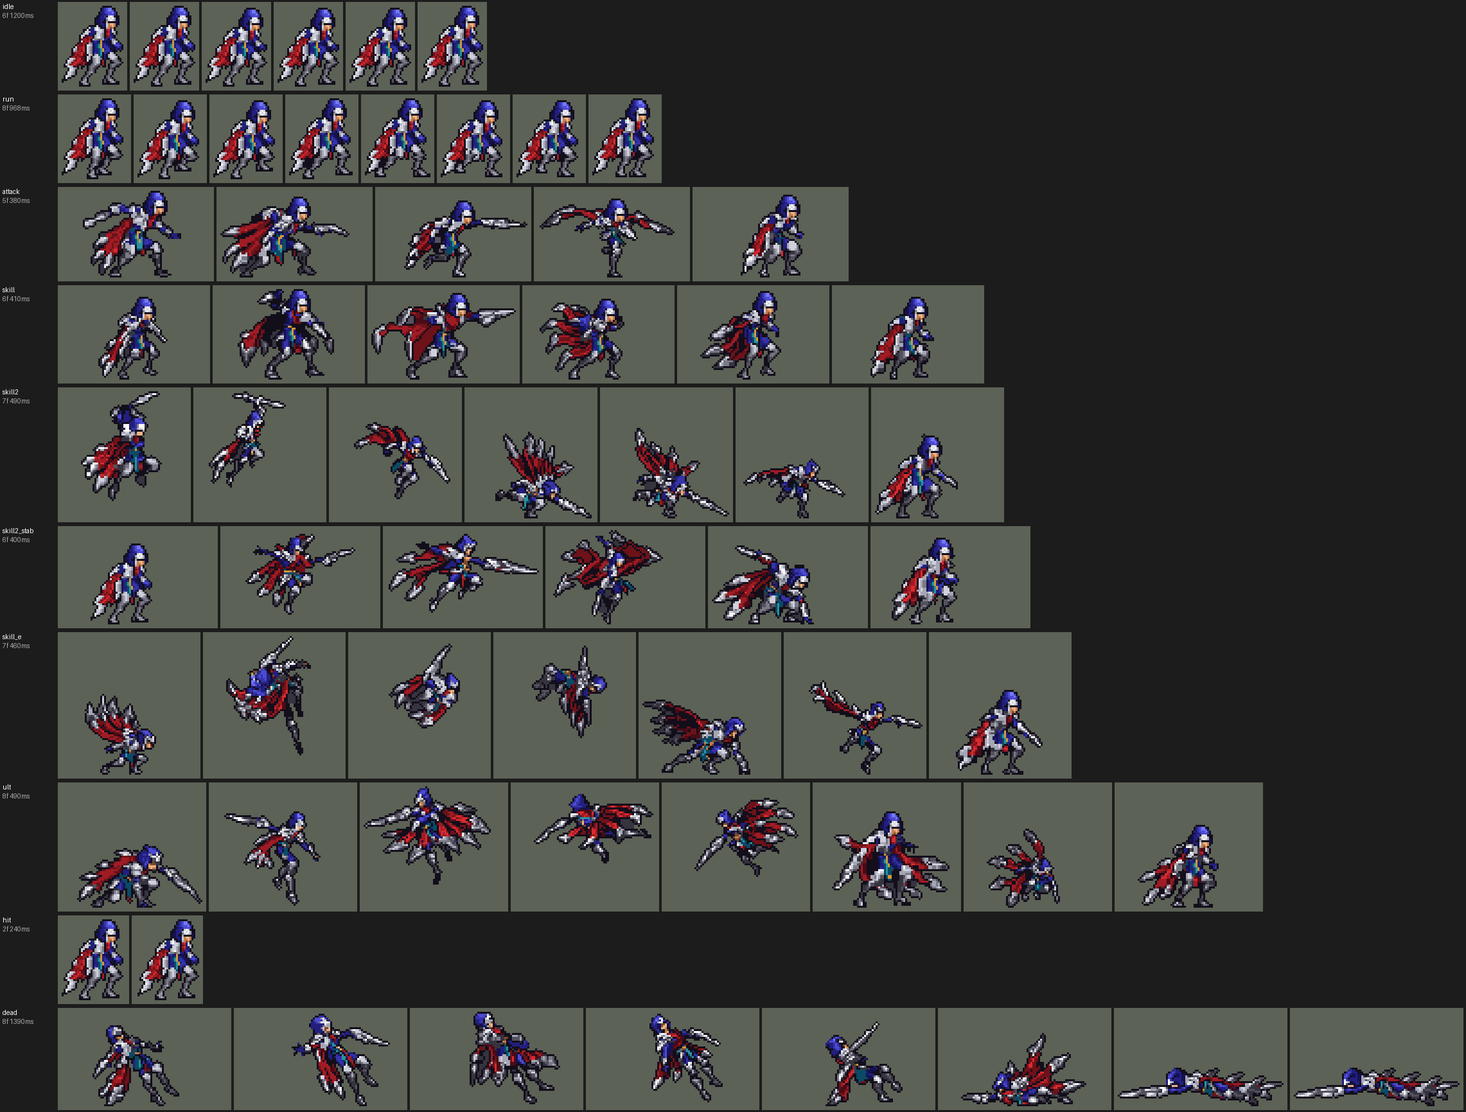
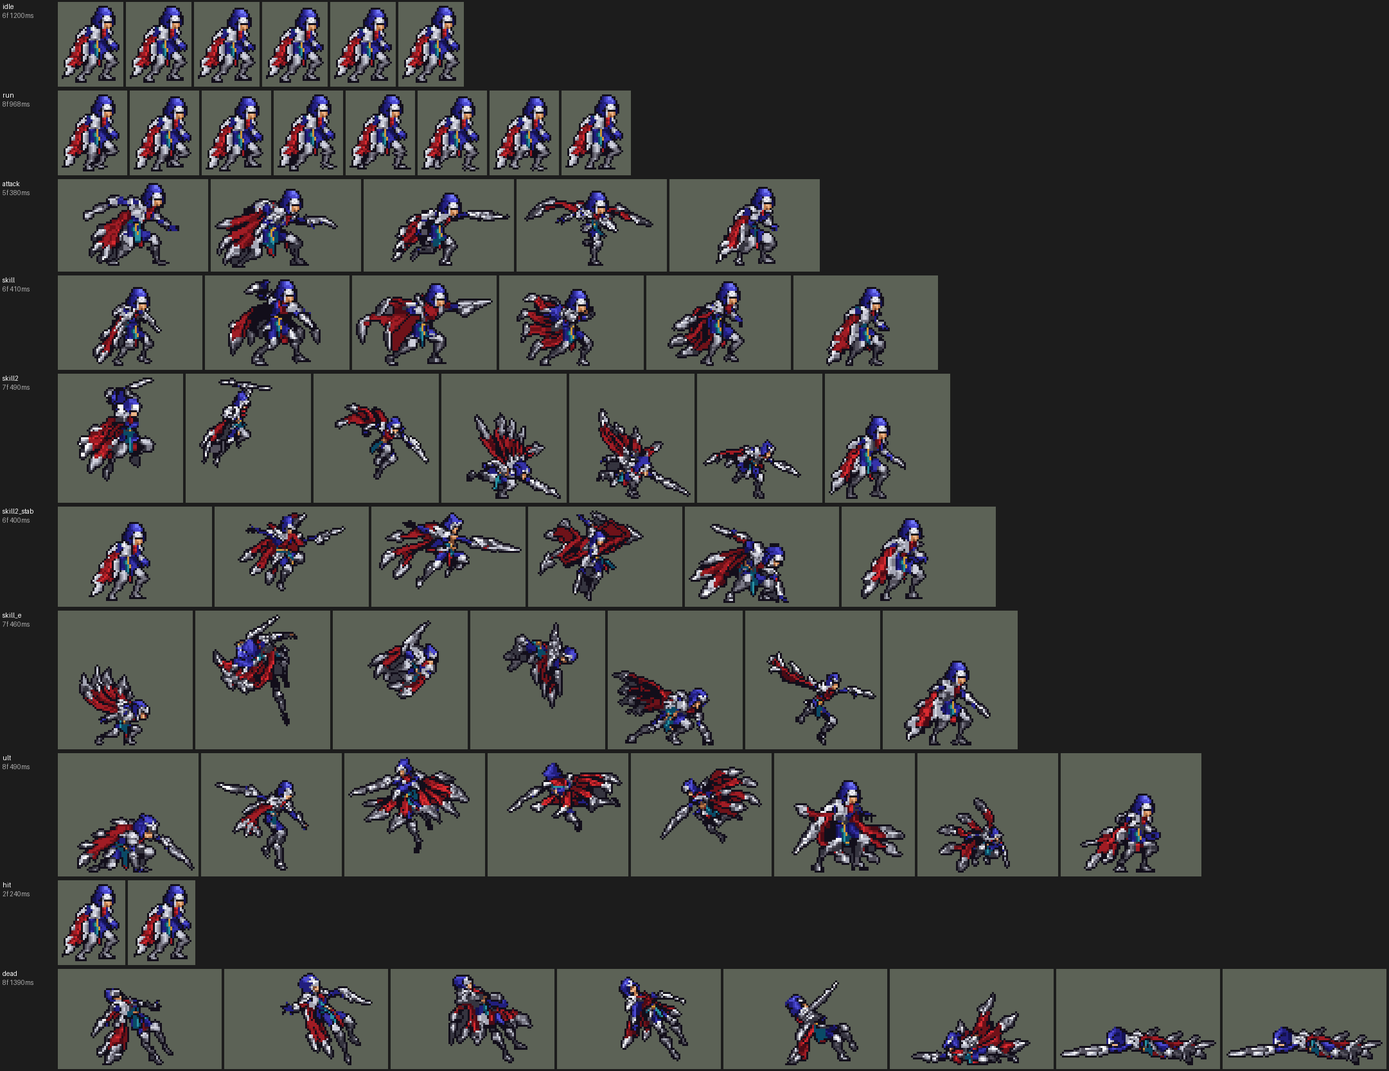
Talon: 95% without touching the head
The user asked for a slightly smaller model (95%, 40 rows). The first cut
took a column through the hood's back and the head looked narrow. The head
(hood, crest, lower face) is now kept whole in every frame: shrink_frames
moves an action's line off the head in the frames where the head has moved
against the sash anchor (SHRINK_HEAD), and the torso box keeps the sash and
buckle rows. The idle loses two shin rows and two cape columns; clean_talon
closes the cut outlines; the hit is rebuilt from the shrunk idle. Face point
(10, -39), card at the default (hood top -28).

diff --git a/tools/art/import_native.py b/tools/art/import_native.py
@@ -651,27 +651,34 @@ BOB_CARRY = {("jhin", "idle"): ((None, -11), (6, None))}
 # hero: a module in tools/art with tidy(tag, k, frame) -> frame, run on the finished frames (after the outline is closed
 # and cleaned): the user's clean-up of dirty black blocks and stray squares inside the silhouette (2026-10-02:
 # "盖伦把黑边清理干净 有杂的黑色的地方", "风女 莫甘娜 不干净的黑色块也太多了", "莫甘娜头部有很多多余的方块", "阿狸也是都给我清理干净")
-TIDY = {"ahri": "clean_ahri", "janna": "clean_janna", "morgana": "clean_morgana",
+TIDY = {"talon": "clean_talon", "ahri": "clean_ahri", "janna": "clean_janna", "morgana": "clean_morgana",
         "xerath": "clean_xerath", "gwen": "clean_gwen"}   # gwen: heart-hole marker -> transparent (clean_gwen); 「顺便把泽拉斯脚上的黑边清理干净」: bare outline stalks under his leg tips
 # heroes made smaller from their finished frames: whole rows and columns out, never resampled (shrink_frames.py); the idle
 # before it breathes. A hero whose strips a rig builds from the design shrinks the design there instead (rig_xinzhao.py
 # SCALE: cut from finished frames a diagonal spear's 1:2 shaft got uneven steps); SHRINK_KEEP: skin colours (hands)
 # no line may cross, "!RRGGBB+up,down,left,right" a box no line may cross
-SHRINK = {"xerath": 0.9, "renekton": 0.9, "twitch": 0.85, "karma": 0.95}      # players (2026-10-08): 「泽拉斯 ... 体型偏大」「鳄鱼体型也偏大了」; karma: 「卡尔玛体型可以变小一点」 -> 90%, then 「缩小模型后有点奇怪了啊整体」: the head is cut in fix_karma_strips.py (HEAD_CUT, the same in every frame) and only two body rows go here (0.95, the head box and the boots kept)
+SHRINK = {"xerath": 0.9, "renekton": 0.9, "twitch": 0.85, "karma": 0.95, "talon": 0.95}      # players (2026-10-08): 「泽拉斯 ... 体型偏大」「鳄鱼体型也偏大了」; karma: 「卡尔玛体型可以变小一点」 -> 90%, then 「缩小模型后有点奇怪了啊整体」: the head is cut in fix_karma_strips.py (HEAD_CUT, the same in every frame) and only two body rows go here (0.95, the head box and the boots kept)
 # no line through Xerath's face (his eyes' white-hot core) or Renekton's (his yellow eyes to his red jaw)
 # "=RRGGBB": no row through a square of that colour (Renekton's blue knee guards: a row through them halved the guard
 # and shifted his leg's stripes - 「这里是像素缺失吗」「在左脚啊」); not in his death, where the lying body's blue made
 # every low row "knee" and the cut fell on his head
-SHRINK_KEEP = {"olaf": ["!0455A6+13,6,11,11"], "karma": ["!1BB663+1,9,16,10", "=222048", "C4815A", "825238"], "xerath": ["!FBFCFC"], "twitch": ["#FBFDF7", "!F94714+3,0,1,1"], "renekton": ["!F9D206+2,1,2,2", "!A8161F", "=0218B2", "=010E84"]}
+SHRINK_KEEP = {"talon": ["!4D4BD2", "!7279F6", "!ECB486+2,12,14,5", "=2A92A2", "=D09A38"], "olaf": ["!0455A6+13,6,11,11"], "karma": ["!1BB663+1,9,16,10", "=222048", "C4815A", "825238"], "xerath": ["!FBFCFC"], "twitch": ["#FBFDF7", "!F94714+3,0,1,1"], "renekton": ["!F9D206+2,1,2,2", "!A8161F", "=0218B2", "=010E84"]}
 SHRINK_KEEP_TAG = {"karma": {"dead": ["!1BB663+3,9,16,10", "=222048", "C4815A", "825238"]}, "renekton": {"dead": ["!F9D206+2,1,2,2", "!A8161F"]}}
 # the lines follow the body from frame to frame, anchored on a colour only one feature has: cut at fixed canvas lines,
 # a cast or an attack that moves him took different lines of him in each frame - 「缩小后放技能的时候模型有点变形」
 # 「攻击时候也是」
-SHRINK_ANCHOR = {"olaf": "0455A6", "karma": "1BB663", "xerath": "FBFCFC", "twitch": "FBFDF7", "renekton": "F9D206"}
+# the head alone, as "!" colours: no frame's removed line crosses it - an action's shared lines are moved off it in
+# the frames where the head has moved against the anchor (Talon ducks, leaps and falls under his sash)
+SHRINK_HEAD = {"talon": ["!7279F6", "!ECB486+2,1,6,3"]}
+SHRINK_ANCHOR = {"talon": "2A92A2", "olaf": "0455A6", "karma": "1BB663", "xerath": "FBFCFC", "twitch": "FBFDF7", "renekton": "F9D206"}
 # actions whose body stands still while something over it floats: their lines are taken at the same place in every frame
 # (shrink_frames' still) - Karma's ring bobs in her idle and carries a square of the anchor's gem green, so the anchor
 # moved with it and her legs lost a row one higher in frames 3-4 (「待机动画效果的时候腿部变形啊」)
-SHRINK_STILL = {"karma": ["idle"]}
+SHRINK_STILL = {"karma": ["idle"], "talon": ["idle"]}
+# actions that are the idle's first frame moved sideways (Talon's hit: the design stepping back): after the shrink they
+# are rebuilt from the shrunk idle, {hero: {tag: [dx per frame]}} - shrunk on their own they lost another column
+# than the idle did, one through the hood (「确认模型没有变形」)
+SHRINK_FROM_IDLE = {"talon": {"hit": [-2, -1]}}
 # single actions made smaller (the idle untouched), {hero: {scale: [tags]}}, with SHRINK_KEEP / SHRINK_ANCHOR as above:
 # Olaf's idle is the slim design B, and Codex's redraw of his R, E and death kept bulkier bodies (area 1.2-1.7x the
 # idle's) - after 「奥拉夫跑动时为什么变大一圈 好违和」 the user picked 「一起改」 (every action at the idle's size); his hit
@@ -1497,7 +1504,8 @@ def main():
             body0 = SF.body_of(sheet["idle"])
             a0 = sheet["idle"][0][0]
             idle_plan = SF.shrink_sheet(sheet, SHRINK[hero], keep_colours=SHRINK_KEEP.get(hero, ()), keep_by_tag=SHRINK_KEEP_TAG.get(hero), body=body0,
-                                        tags=["idle"], anchor=SHRINK_ANCHOR.get(hero), still=SHRINK_STILL.get(hero, ()))["idle"]
+                                        tags=["idle"], anchor=SHRINK_ANCHOR.get(hero), still=SHRINK_STILL.get(hero, ()),
+                                        head=SHRINK_HEAD.get(hero, ()))["idle"]
             if hero in HEAD_AT:
                 hx, hy = HEAD_AT[hero]
                 nx, ny = SF.move_point(idle_plan, hx - a0.shape[1] // 2, hy - a0.shape[0] // 2)
@@ -1520,13 +1528,28 @@ def main():
             plans = {"idle": idle_plan, **SF.shrink_sheet(sheet, SHRINK[hero], same_as=copies, body=body0,
                                                          keep_colours=SHRINK_KEEP.get(hero, ()), keep_by_tag=SHRINK_KEEP_TAG.get(hero),
                                                          tags=[t for t in sheet if t != "idle"],
-                                                         anchor=SHRINK_ANCHOR.get(hero), still=SHRINK_STILL.get(hero, ()))}
+                                                         anchor=SHRINK_ANCHOR.get(hero), still=SHRINK_STILL.get(hero, ()),
+                                        head=SHRINK_HEAD.get(hero, ()))}
             SHRUNK[hero] = plans
             print(f"{hero}: shrunk to {SHRINK[hero]:.0%} without resampling: " + ", ".join(
                 f"{t} -{len(p['rows'])}r -{len(p['cols'])}c" for t, p in plans.items()))
             # a TIDY module's clean-up for the shrunk frames (tidy_shrunk): a removed row can take a tip's cap with
             # it (Xerath's far leg)
             tidy_frames(hero, sheet, "tidy_shrunk")
+            for tag, shifts in SHRINK_FROM_IDLE.get(hero, {}).items():
+                base = sheet["idle"][0][0]
+                out = []
+                for (_, ms), dx in zip(sheet[tag], shifts):
+                    f = np.zeros_like(base)
+                    if dx < 0:
+                        f[:, :dx] = base[:, -dx:]
+                    elif dx > 0:
+                        f[:, dx:] = base[:, :-dx]
+                    else:
+                        f = base.copy()
+                    out.append((f, ms))
+                sheet[tag] = out
+                print(f"{hero}: {tag} rebuilt from the shrunk idle (dx {shifts})")
         if hero in SHRINK_TAGS:
             import shrink_frames as SF
             body0 = SF.body_of(sheet["idle"])

diff --git a/tools/art/shrink_frames.py b/tools/art/shrink_frames.py
@@ -178,7 +178,8 @@ def _pick(cost, lo, hi, k, avoid=(), keep=None):
     return out
 
 
-def plan_tag(frames, body, scale, keep_colours=(), edge_rows=(), edge_cols=(), hard_frames=None, shifts=None):
+def plan_tag(frames, body, scale, keep_colours=(), edge_rows=(), edge_cols=(), hard_frames=None, shifts=None,
+             head=()):
     """The rows and columns (canvas lines, from the pivot) the hero loses. body = (top, bottom, left, right) of the
     idle's body from the pivot (bottom = the soles' row): of its rows and columns 1 - scale go; of what lies beyond
     it (a raised or held-out weapon) the same share. One plan serves every action (shrink_sheet passes all their
@@ -186,7 +187,11 @@ def plan_tag(frames, body, scale, keep_colours=(), edge_rows=(), edge_cols=(), h
     every animation change. edge_rows / edge_cols: every action's own outermost two lines (pivot-relative), kept.
     shifts: per frame (dy, dx) of the body against the action's first frame (anchor_shifts): the lines are chosen on
     the frames moved back onto the first and removed at that much offset in each, so every frame loses the same lines
-    of HIM, not of the canvas."""
+    of HIM, not of the canvas.
+    head: "!" colours of the head alone (shrink_sheet's head): a frame where one of the action's lines still crosses
+    that box (the head moves against the anchor - Talon ducks, leaps and falls under his sash: 「我反正现在看的有点怪的」)
+    takes, in that frame only, the nearest line off it instead (frame_rows / frame_cols) - the same number, so the
+    frame stays as tall as the others."""
     st, H, W = _canvas(frames)
     if shifts is not None:
         st = np.stack([_moved(f, -dy, -dx) for f, (dy, dx) in zip(st, shifts)])
@@ -265,9 +270,34 @@ def plan_tag(frames, body, scale, keep_colours=(), edge_rows=(), edge_cols=(), h
             hc[edge] += big
     r_pick = move_off(r_pick, hr, rc, rows.min(), H + bottom + 1, (), False)
     c_pick = move_off(c_pick, hc, cc, cols.min(), cols.max() + 1, (W,), True)
-    return {"rows": sorted(i - H for i in r_pick), "cols": sorted(i - W for i in c_pick),       # from the pivot
+    plan = {"rows": sorted(i - H for i in r_pick), "cols": sorted(i - W for i in c_pick),       # from the pivot
             "lost": int(rc[r_pick].sum() + cc[c_pick].sum()) if r_pick or c_pick else 0,
             "shifts": [tuple(int(v) for v in d) for d in shifts] if shifts is not None else None}
+    if head:
+        own = _kept(st, list(head))
+        fr_r, fr_c = [], []
+        for k in range(st.shape[0]):
+            on_r, on_c = own[k].any(1), own[k].any(0)
+            occ_k = st[k][..., 3] > 0
+            fr_r.append(_frame_lines(r_pick, on_r, rc, edge_r | {H}, rows.min(), H + bottom, occ_k.any(1)) - H)
+            fr_c.append(_frame_lines(c_pick, on_c, cc, edge_c | {W}, cols.min(), cols.max(), occ_k.any(0)) - W)
+        plan["frame_rows"] = [sorted(int(v) for v in r) for r in fr_r]
+        plan["frame_cols"] = [sorted(int(v) for v in c) for c in fr_c]
+    return plan
+
+
+def _frame_lines(picks, on, cost, edges, lo, hi, filled):
+    """One frame's lines: the action's picks, each one crossing the head box (on) moved to the nearest line of the
+    figure that is off it, not an edge and not next to another pick - the cheapest of the nearest."""
+    out = list(picks)
+    for j, i in enumerate(out):
+        if not on[i]:
+            continue
+        free = [c for c in range(lo, hi + 1) if not on[c] and filled[c] and c not in edges and c not in out
+                and (c - 1) not in out and (c + 1) not in out]
+        if free:
+            out[j] = min(free, key=lambda c: (abs(c - i), cost[c]))
+    return np.array(out, int)
 
 
 def _moved(a, dy, dx):
@@ -333,8 +363,10 @@ def apply_tag(frames, plan):
     out = []
     for k, (_, ms) in enumerate(frames):
         dy, dx = shifts[k] if k < len(shifts) else (0, 0)
-        gone_r = {H + i + dy for i in plan["rows"] if 0 <= H + i + dy < st.shape[1]}
-        gone_c = {W + i + dx for i in plan["cols"] if 0 <= W + i + dx < st.shape[2]}
+        rows_k = plan["frame_rows"][k] if plan.get("frame_rows") and k < len(plan["frame_rows"]) else plan["rows"]
+        cols_k = plan["frame_cols"][k] if plan.get("frame_cols") and k < len(plan["frame_cols"]) else plan["cols"]
+        gone_r = {H + i + dy for i in rows_k if 0 <= H + i + dy < st.shape[1]}
+        gone_c = {W + i + dx for i in cols_k if 0 <= W + i + dx < st.shape[2]}
         keep_r = [i for i in range(st.shape[1]) if i not in gone_r]
         keep_c = [i for i in range(st.shape[2]) if i not in gone_c]
         pr = H - len(gone_r)
@@ -352,7 +384,7 @@ def body_of(frames):
 
 
 def shrink_sheet(sheet, scale, body_tag="idle", same_as=None, keep_colours=(), body=None, tags=None, anchor=None,
-                 keep_by_tag=None, still=()):
+                 keep_by_tag=None, still=(), head=()):
     """Every action of the sheet (or only `tags`) made `scale` as big; returns {tag: plan}. same_as {tag: source tag}: a
     copy of another action's frames (import_native's bake: the attack with a flash drawn in) takes its source's plan.
     body: the range the counts come from (body_of the idle as drawn), when the idle has been shrunk already.
@@ -361,7 +393,8 @@ def shrink_sheet(sheet, scale, body_tag="idle", same_as=None, keep_colours=(), b
     still: actions whose body stands still from frame to frame while something over it floats (Karma's idle: her ring
     bobs, and the anchor colour is on the ring too) - the lines as chosen, taken at the same place in every frame: the
     anchor read the ring's float as the body moving and cut her legs one row higher in two frames
-    (「待机动画效果的时候腿部变形啊」)."""
+    (「待机动画效果的时候腿部变形啊」).
+    head: "!" colours of the head alone - no frame's line crosses it (plan_tag)."""
     if body is None:
         body = body_of(sheet[body_tag])
     # one plan per action from its own frames (its head box and hands are tight there; one plan for all the actions
@@ -387,7 +420,7 @@ def shrink_sheet(sheet, scale, body_tag="idle", same_as=None, keep_colours=(), b
             if anchor:
                 refs[tag] = next((p for p in anchor_points(fr, anchor) if p is not None), None)
             plans[tag] = plan_tag(fr, body, scale, (keep_by_tag or {}).get(tag, keep_colours),
-                                  shifts=anchor_shifts(fr, anchor, refs[tag]) if anchor else None)
+                                  shifts=anchor_shifts(fr, anchor, refs[tag]) if anchor else None, head=head)
             if tag in still:
                 plans[tag]["shifts"] = None
     for tag in todo:

diff --git a/tools/art/clean_talon.py b/tools/art/clean_talon.py
@@ -1,0 +1,27 @@
+#!/usr/bin/env python3
+"""Talon's clean-up after import_native.py's SHRINK (TIDY "clean_talon", step tidy_shrunk): a removed row or column
+can run through a slanted outline and leave its corner open, or close a gap into a 1-2 px hole. Every frame gets the
+same finish as fix_talon_strips.finish's last steps: every light edge outlined (close_all) and every enclosed hole /
+1-px-open pocket filled (fill_holes; the run keeps its leg gaps)."""
+import os
+import sys
+
+HERE = os.path.dirname(os.path.abspath(__file__))
+sys.path.insert(0, HERE)
+import fix_talon_strips as F  # noqa: E402
+
+SOLES = 11          # the soles' row under the pivot (the frame is centred on the pivot)
+
+
+def tidy_shrunk(tag, k, frame):
+    a = frame.copy()
+    if not a[..., 3].any():
+        return a
+    sole = a.shape[0] // 2 + SOLES
+    a = F.close_all(a, sole)
+    for _ in range(4):
+        b = F.fill_holes(a, run=tag == "run", pocket_max=0 if tag == "run" else 40)
+        if (b == a).all():
+            break
+        a = b
+    return a

diff --git a/README.md b/README.md
@@ -155,7 +155,7 @@
 
 ![赫卡里姆演示：他从远处毁灭冲锋，起步扬起尘土、蹄下燃着幽灵火，冲满三段一刀砸在德莱厄斯身上把他撞退，撞完蹄下生风；他跟上挥戟，Q 暴走：身边转出一圈幽灵刀光，身边有敌方英雄，恐惧之灵自动开启：地上炸开一圈幽灵、脚下绕着幽灵圈、每秒从德莱厄斯身上抽出一缕灵魂，马身两侧亮起暴走层数的幽灵火；R 暗影冲击：他扬蹄召出暗影，带着幽灵骑兵冲向盖伦，骑兵穿过德莱厄斯砍出暗影刀光，落地冲击波裂开地面，盖伦头顶冒出幽灵骷髅被吓跑](docs/preview/league_hecarim_showcase.gif)
 
-![泰隆演示：W 斩草除根：一扇四把弯刃穿过德莱厄斯飞出去，泰隆随即跃起，诺克萨斯式外交从天而降刺中他，头顶冒出三道伤口，刀刃拖着暗红刀痕飞回、地上留下减速刀痕；他一刀刺下，第三层伤口引爆血雾；R 暗影突袭：一圈刀刃向四周甩出，他隐身绕开再贴上去出刀，刀刃从四周飞回收拢；被德莱厄斯和盖伦夹住时刺客之道翻身跃开，脚下生风](docs/preview/league_talon_showcase.gif?v=1)
+![泰隆演示：W 斩草除根：一扇四把弯刃穿过德莱厄斯飞出去，泰隆随即跃起，诺克萨斯式外交从天而降刺中他，头顶冒出三道伤口，刀刃拖着暗红刀痕飞回、地上留下减速刀痕；他一刀刺下，第三层伤口引爆血雾；R 暗影突袭：一圈刀刃向四周甩出，他隐身绕开再贴上去出刀，刀刃从四周飞回收拢；被德莱厄斯和盖伦夹住时刺客之道翻身跃开，脚下生风](docs/preview/league_talon_showcase.gif?v=2)
 
 ## 英雄：盖伦
 
@@ -3565,7 +3565,7 @@ python tools/art/preview_hecarim.py       # 预览和演示 GIF
 | 数值 | 攻击 122（+25）、生命 930（+88）、护甲 26（+8）、魔抗 18（+4）、移速 1100（+13）。数值是自己设计的，用 SDK 对战模拟调：中单，对 5 个原版法师，种子 1–12 和 25–36 各 12 局、10 分钟。初稿 +1.12 / +1.92；按动作条对准出手时间后 +2.09 / +2.20，Q 降到 48、W 回程降到 40：+1.53 / +1.74（同期阿卡丽 +1.30 / +2.03、乐芙兰 +1.18 / +0.37、劫 +0.50） |
 | 亚索联动 | 没有击飞和硬控，亚索大招不受影响，不用调 |
 | 技能树大小 | 普攻 24、W 235、Q 171、R 166 个节点（都在 300 以内；R 收刀由大招每 2 tick 检查一次，不放进被复制的普攻和 Q 里） |
-| 精灵图 | 10 个动作 63 帧：待机 6（上半身下沉一行的无损呼吸）、移动 8（定稿的身体每帧不变、只颠一格，两条小腿整块交替迈步）、普攻 5、W（`skill`）6、Q 跃击（`skill2`）7、Q 近身回旋斩（`skill2_stab`）6、E（`skill_e`）7、R（`ult`）8、受击 2、死亡 8。42×32 px，22 色。不画眼睛：额前银色刀刃护额下是一条兜帽黑影，只露下半张脸（用户：「这眼睛不对 你要么就别画眼睛了 拿头罩遮住」）。头像截取点 (10, −41)，选人卡片 −9（兜帽顶在 −30） |
+| 精灵图 | 10 个动作 63 帧：待机 6（上半身下沉一行的无损呼吸）、移动 8（定稿的身体每帧不变、只颠一格，两条小腿整块交替迈步）、普攻 5、W（`skill`）6、Q 跃击（`skill2`）7、Q 近身回旋斩（`skill2_stab`）6、E（`skill_e`）7、R（`ult`）8、受击 2、死亡 8。40×30 px（缩到 95%：整行整列去掉、不重采样，见下），22 色。不画眼睛：额前银色刀刃护额下是一条兜帽黑影，只露下半张脸（用户：「这眼睛不对 你要么就别画眼睛了 拿头罩遮住」）。头像截取点 (10, −39)，选人卡片用默认位置（兜帽顶在 −28） |
 | 特效 | Codex 第 3 步的 16 张，`import_talon.py` 按格读回、按技能范围定大小：`league_talon_fx` 普攻刀光、伤口标记（循环）、流血血雾、Q 起跳 / 刺中血花 / 击杀回血、W 去程一扇刀刃 / 回程拖暗红刀痕 / 命中 / 减速刀痕、E 翻越弧光 / 加速风线、R 命中 / 隐身的蓝紫烟；`league_talon_big` R 甩出的一圈刀刃和收回的刀刃。配色照英雄联盟：银白刀刃 + 冰蓝刃光、暗红血和刀痕、暗蓝紫隐身烟。飞刀朝右画（会转到飞行方向，上下对称），其余左右对称 |
 | 音效 | 英雄联盟的音效和配音（`tools/lol/extract_talon.py`）：普攻挥刀和命中、被动流血、Q 跃击 / 捅刺 / 命中、W 出手 / 命中 / 回程、E、R 出手 / 命中 / 收刀；Q、W、E、R 的中文配音。版权属于 Riot Games，**不提交到仓库**，按下面的命令在本地生成 |
 | 图标 | 官方技能图标（W / Q / R），从本地客户端提取，缩到 64×64；E 自动，没有技能位 |
@@ -3575,7 +3575,7 @@ python tools/art/preview_hecarim.py       # 预览和演示 GIF
 ```bash
 python tools/lol/extract_talon.py --lol "D:\WeGameApps\lol" --vgmstream "<vgmstream-cli.exe 路径>"
 python tools/kit/build_talon.py           # 技能数据，数字都在脚本的参数表 P 里；--nodes 看每棵技能树的节点数
-python tools/kit/setup_talon.py --face 10,-41 --banpick -9   # 五种语言的文字、音效配置、共享文件里他的键
+python tools/kit/setup_talon.py --face 10,-39   # 五种语言的文字、音效配置、共享文件里他的键
 python tools/art/design_talon.py --final  # 造型：定稿字母格 -> 8 倍画布
 python tools/art/fix_talon_strips.py      # 动作：Codex 逐帧画的动作读回、换上定稿的头和腰胯、补洞、跑步用定稿自己的腿
 python tools/art/import_native.py --hero talon
@@ -3589,6 +3589,7 @@ python tools/art/preview_talon.py         # 预览和演示 GIF
 - 造型：Codex 的游戏尺寸版太粗糙（用户：「GPT做的有点差」）。改成按原画描出剪影（头放大 1.55 倍），里面逐格手画：大块平涂，三层银肩甲、带银刀尖的红披风、胯边长刃、金扣腰带和青色腰布。眼睛几次都不对，最后按用户的意思不画眼睛、用兜帽黑影遮住。腰胯（「腰部和腿连接模型都变形了」「这里留个大窟窿」）和小腿（「待机时腿部有点模型变形」）照原画逐格重画、补实。
 - 动作：每帧单独一张、直接画在 8 倍游戏格上。`fix_talon_strips.py` 按格读回、对齐定稿色板、换上定稿的头（倾斜、背身的帧保留 Codex 画的兜帽）和腰胯、清掉黑团和杂点、补齐描边、填掉被围住的洞；受击用定稿后缩。
 - 跑步：Codex 画的腿是一像素的细线，改用定稿自己的两条小腿，小腿和靴子整块交替前后迈步、抬脚，身体和待机逐像素相同。
+- 缩小（用户：「模型可以略微缩小一点吗」，选 95%）：`import_native.py` 的 SHRINK 整行整列去掉、不重采样。第一版去掉的一列穿过兜帽后脑，头变窄（用户：「我反正现在看的有点怪的」）；现在头（兜帽、护额、下半张脸）和腰带都不许被切，动作里头相对腰带移动的帧逐帧把线挪开（`shrink_frames.py` 的 head），63 帧的头和原版逐像素相同。待机去掉的是两行小腿和两列披风，`clean_talon.py` 补齐切口的描边。
 
 逐帧预览：[`docs/preview/league_talon_frames.png`](docs/preview/league_talon_frames.png)，特效：[`docs/preview/league_talon_effects.png`](docs/preview/league_talon_effects.png)。
 
